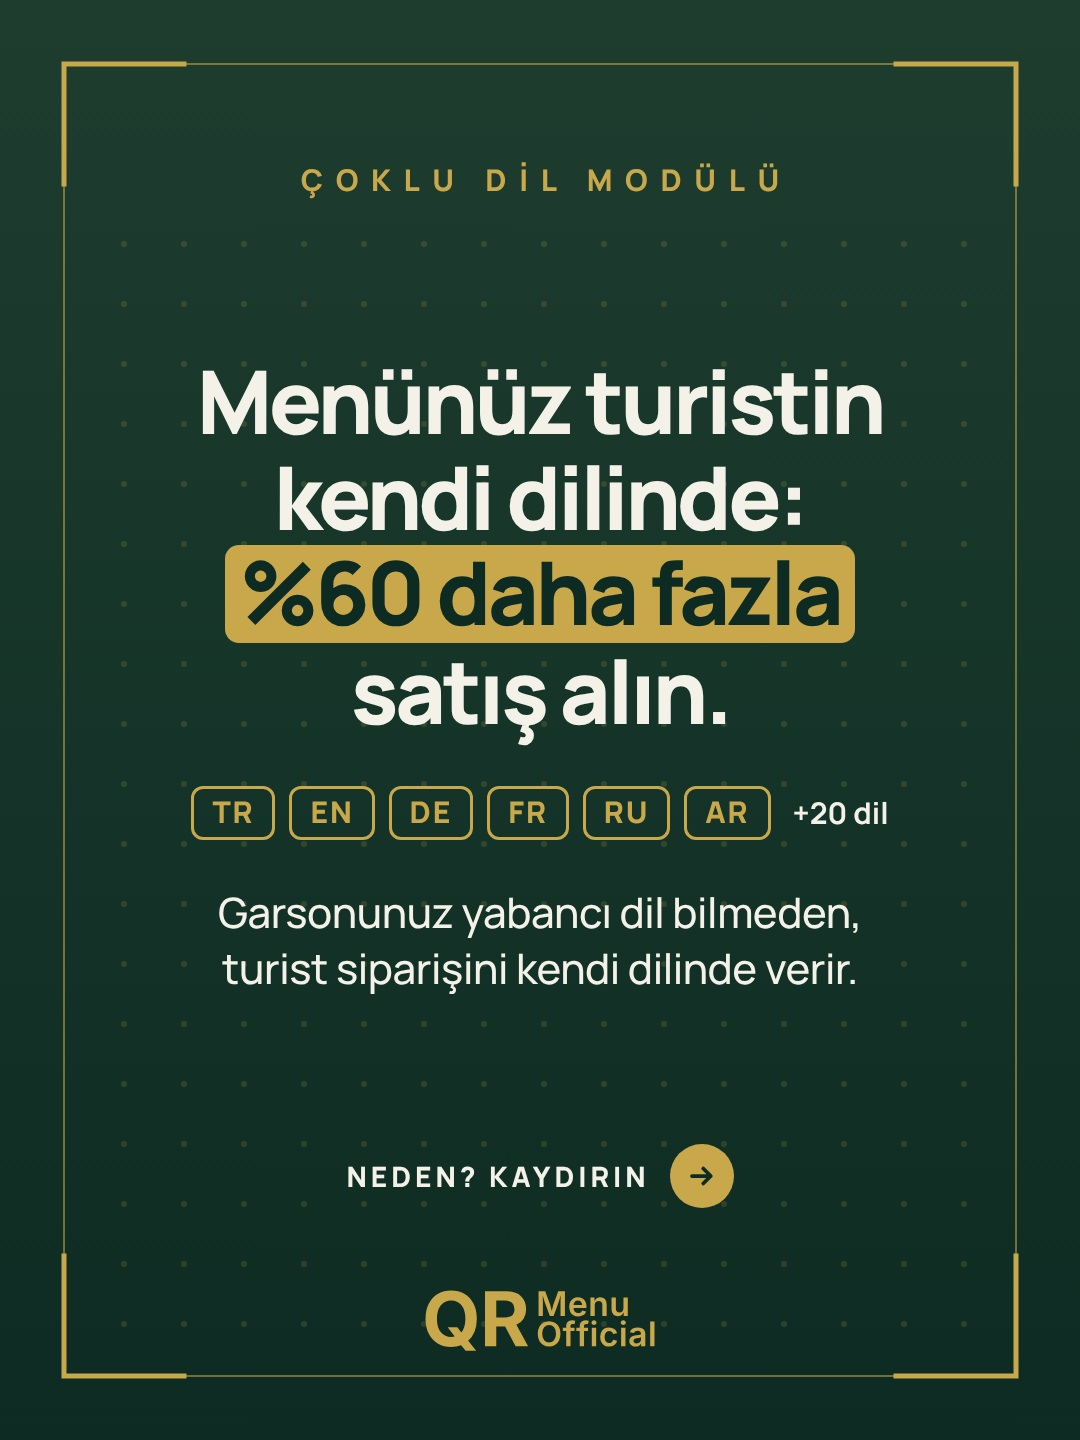
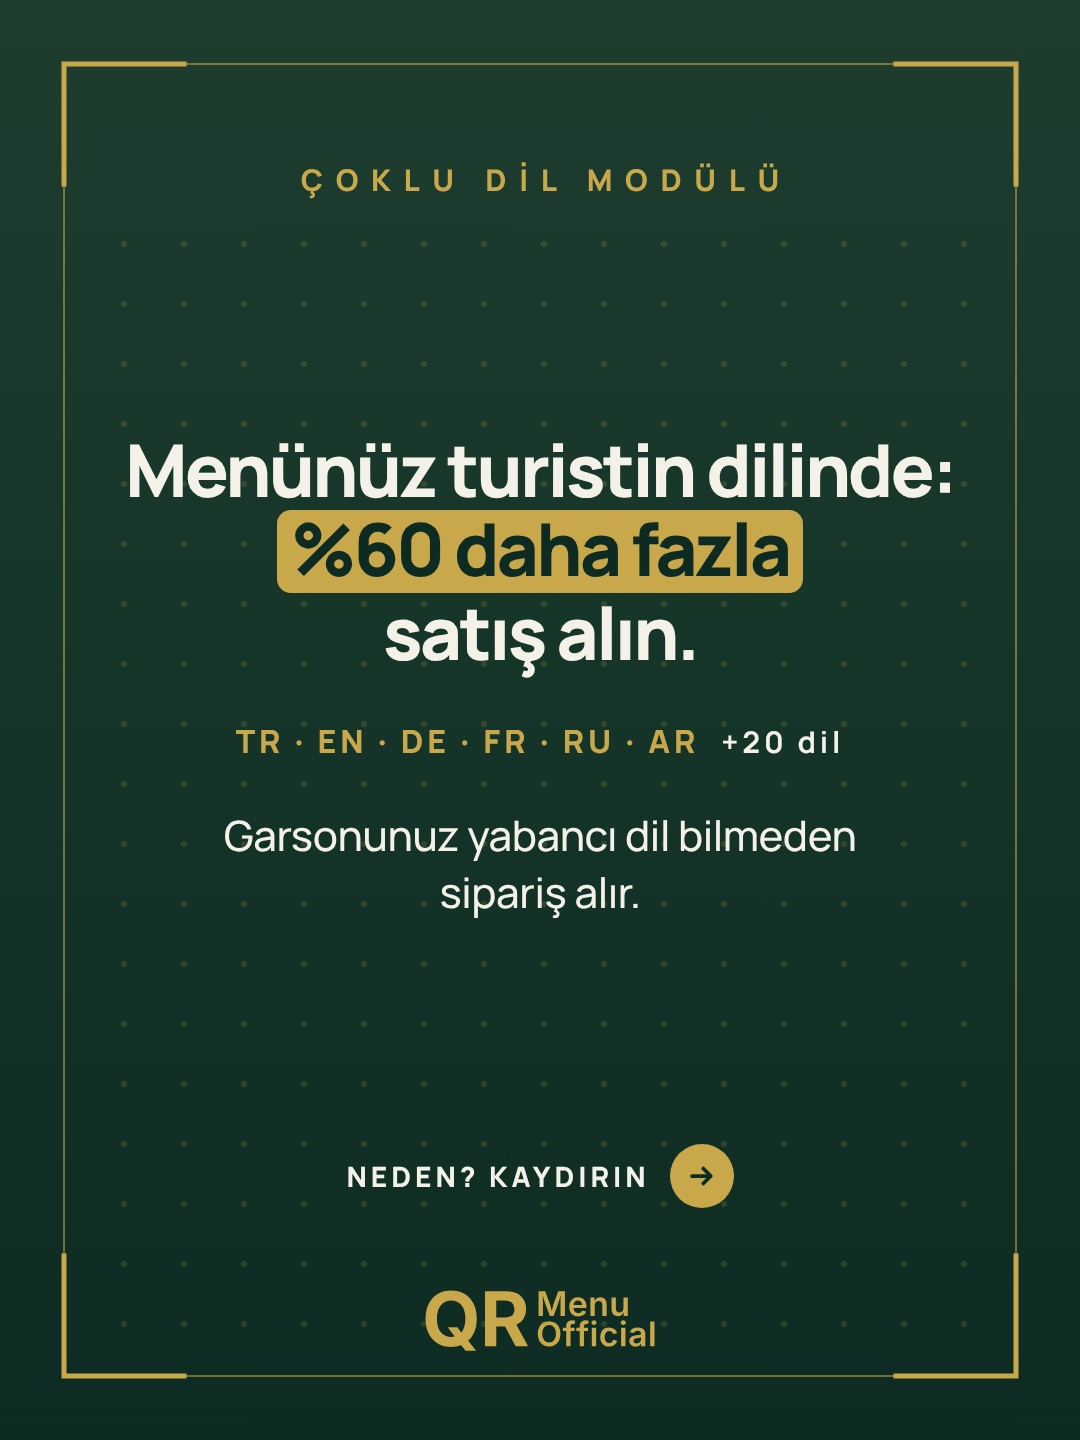
Carousel kapağı: 3 satır başlık, sade dil satırı, tekrar giderildi
Claude-Session: https://claude.ai/code/session_01FBw9rVwrniVjyFvtgVdFXq

Changed region(s): [[0.1222, 0.25, 0.8861, 0.6875]]

diff --git a/analiz/carousel-dil/carousel-v6.html b/analiz/carousel-dil/carousel-v6.html
@@ -87,7 +87,7 @@ body{background:linear-gradient(var(--y2),var(--y))!important;color:var(--off)!i
 .q .t{font-size:38px!important}.qs{gap:36px!important;margin-top:40px!important}
 .area.top{top:190px;bottom:230px}
 .rg{display:none!important}.langs{display:flex;gap:14px;align-items:center;justify-content:center;margin:48px 0 44px}
-.langs span{font-weight:800;font-size:30px;letter-spacing:.06em;color:var(--g);border:3px solid var(--g);border-radius:12px;padding:8px 18px 10px;line-height:1}
+.langs{font-weight:800;font-size:32px;letter-spacing:.12em;color:var(--g);gap:14px}
 .langs em{font-style:normal;font-weight:700;font-size:30px;color:var(--off);margin-left:8px}
 </style></head><body>
 <svg class="rg a" width="1080" height="1440" viewBox="0 0 1080 1440" fill="none"><g><circle cx="1200" cy="300" r="180" stroke="#0D2B22" stroke-width="3.0" opacity="0.198"/><circle cx="1200" cy="300" r="300" stroke="#0D2B22" stroke-width="2.6" opacity="0.162"/><circle cx="1200" cy="300" r="420" stroke="#0D2B22" stroke-width="2.2" opacity="0.126"/><circle cx="1200" cy="300" r="540" stroke="#0D2B22" stroke-width="2.0" opacity="0.095"/><circle cx="1200" cy="300" r="660" stroke="#0D2B22" stroke-width="1.6" opacity="0.068"/><circle cx="1200" cy="300" r="780" stroke="#0D2B22" stroke-width="1.4" opacity="0.045"/><circle cx="1200" cy="300" r="900" stroke="#0D2B22" stroke-width="1.2" opacity="0.032"/></g><g><circle cx="-120" cy="1560" r="180" stroke="#0D2B22" stroke-width="2.4" opacity="0.135"/><circle cx="-120" cy="1560" r="300" stroke="#0D2B22" stroke-width="2" opacity="0.099"/><circle cx="-120" cy="1560" r="420" stroke="#0D2B22" stroke-width="1.6" opacity="0.068"/><circle cx="-120" cy="1560" r="520" stroke="#0D2B22" stroke-width="1.3" opacity="0.045"/></g></svg> <svg class="rg z" width="1080" height="1440" viewBox="0 0 1080 1440" fill="none"><g><circle cx="1200" cy="300" r="180" stroke="#C9A84C" stroke-width="3.0" opacity="0.242"/><circle cx="1200" cy="300" r="300" stroke="#C9A84C" stroke-width="2.6" opacity="0.198"/><circle cx="1200" cy="300" r="420" stroke="#C9A84C" stroke-width="2.2" opacity="0.154"/><circle cx="1200" cy="300" r="540" stroke="#C9A84C" stroke-width="2.0" opacity="0.116"/><circle cx="1200" cy="300" r="660" stroke="#C9A84C" stroke-width="1.6" opacity="0.083"/><circle cx="1200" cy="300" r="780" stroke="#C9A84C" stroke-width="1.4" opacity="0.055"/><circle cx="1200" cy="300" r="900" stroke="#C9A84C" stroke-width="1.2" opacity="0.039"/></g><g><circle cx="-120" cy="1560" r="180" stroke="#C9A84C" stroke-width="2.4" opacity="0.165"/><circle cx="-120" cy="1560" r="300" stroke="#C9A84C" stroke-width="2" opacity="0.121"/><circle cx="-120" cy="1560" r="420" stroke="#C9A84C" stroke-width="1.6" opacity="0.083"/><circle cx="-120" cy="1560" r="520" stroke="#C9A84C" stroke-width="1.3" opacity="0.055"/></g></svg>
@@ -115,9 +115,9 @@ const MOD='QR MENÜ OFFICIAL<small>ÇOKLU DİL MODÜLÜ</small>';const FT='<div 
 const nx=(t,c)=>`<div class="nx">${t}<i>${ARW(c)}</i></div>`;
 const SL={
 1:{bg:'altin',html:()=>`<div class="lab" style="font-size:30px;padding-top:34px">ÇOKLU DİL MODÜLÜ</div>
- <div class="area c" style="top:200px;bottom:290px"><div class="h" id="H" data-max="88" data-min="72">${L(['Menünüz turistin','kendi dilinde:','[[%60 daha fazla]]','satış alın.'])}</div>
- <div class="langs"><span>TR</span><span>EN</span><span>DE</span><span>FR</span><span>RU</span><span>AR</span><em>+20 dil</em></div>
- <div class="p" id="P" data-max="42" data-min="36">${L(['Garsonunuz yabancı dil bilmeden,','turist siparişini kendi dilinde verir.'])}</div></div>
+ <div class="area c" style="top:200px;bottom:290px"><div class="h" id="H" data-max="84" data-min="64">${L(['Menünüz turistin dilinde:','[[%60 daha fazla]]','satış alın.'])}</div>
+ <div class="langs">TR · EN · DE · FR · RU · AR <em>+20 dil</em></div>
+ <div class="p" id="P" data-max="42" data-min="36">${L(['Garsonunuz yabancı dil bilmeden','sipariş alır.'])}</div></div>
  ${nx('Neden? Kaydırın','#F4F1E8').replace('class="nx"','class="nx" style="bottom:232px"')}<div class="logo">${LG()}</div>`},
 2:{bg:'krem',html:()=>`<div class="lab">${MOD}</div>
  <div class="area top"><div class="h" id="H" data-max="84" data-min="64">${L(['Bu 3 soruyu','kendinize [[sorun:]]'])}</div>
